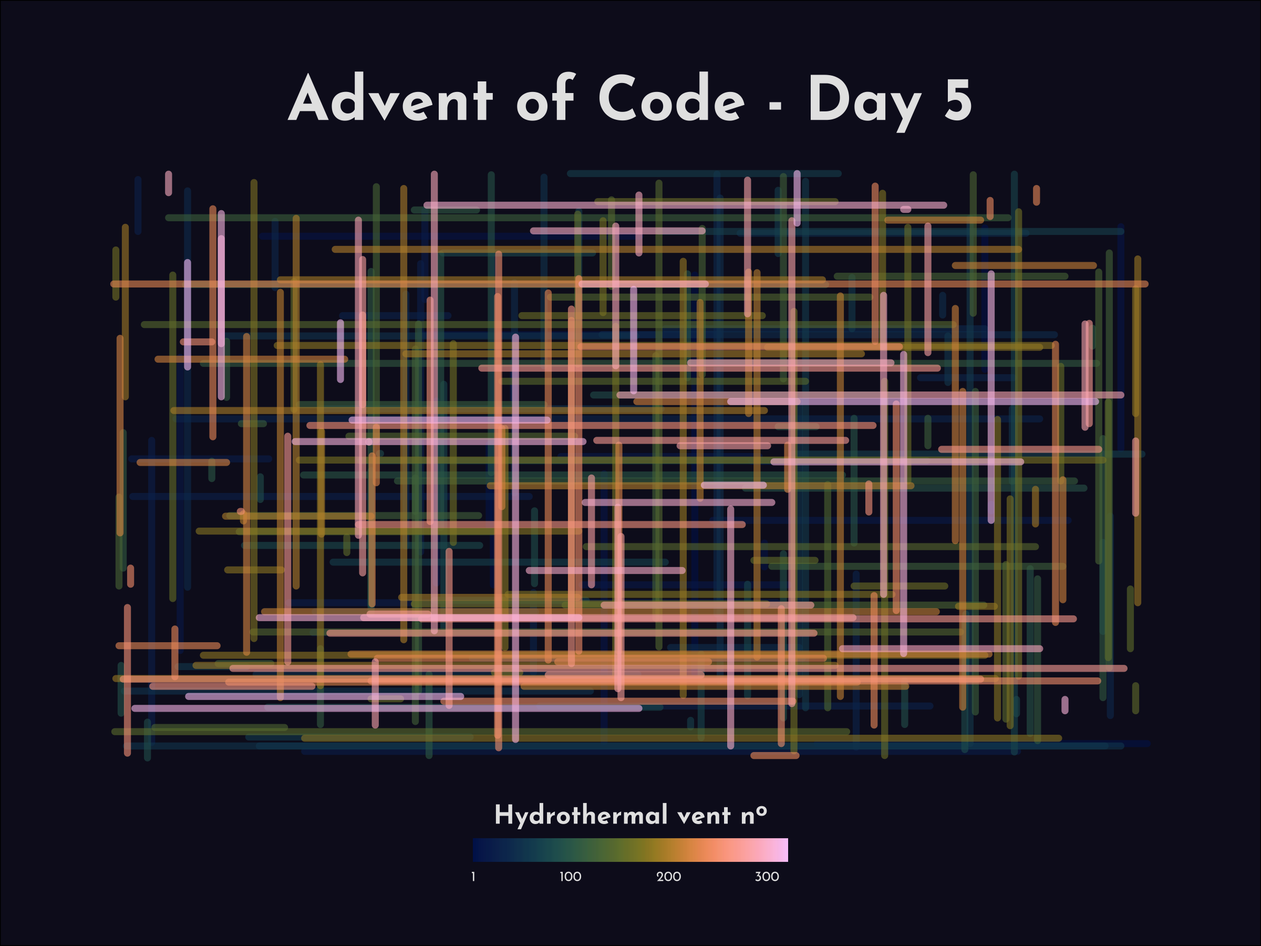
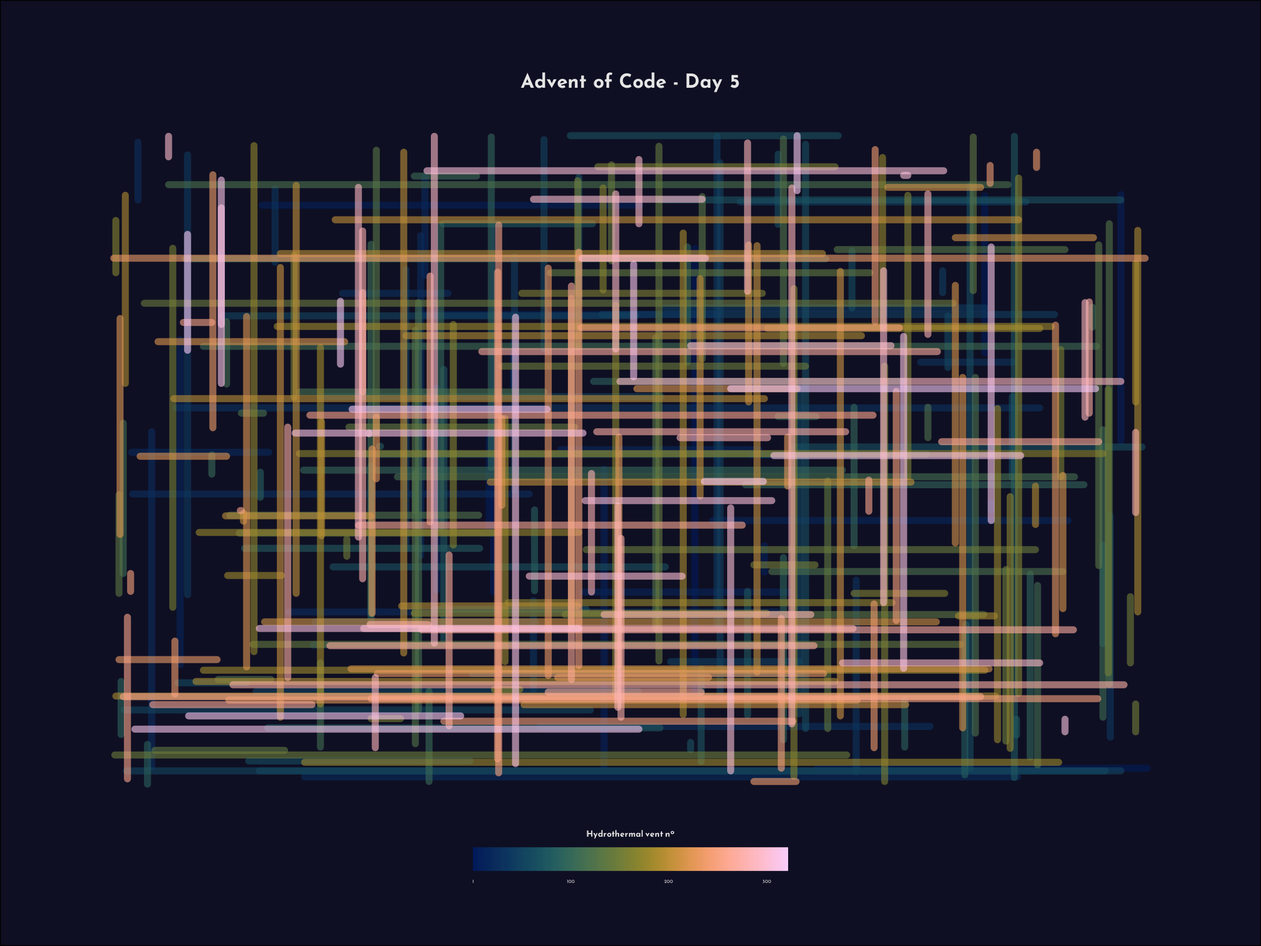
style fixes

Changed region(s): [[0.0625, 0.0622, 0.9062, 0.9333]]

diff --git a/docs/2021.html b/docs/2021.html
@@ -2506,7 +2506,6 @@ p a:hover {
 <div class="sourceCode">
 <pre class="sourceCode r"><code class="sourceCode r"><span class='kw'><a href='https://rdrr.io/r/base/library.html'>library</a></span><span class='op'>(</span><span class='va'><a href='https://tidyverse.tidyverse.org'>tidyverse</a></span><span class='op'>)</span>
 
-
 <span class='va'>data</span> <span class='op'>&lt;-</span> <span class='fu'><a href='https://readr.tidyverse.org/reference/read_table.html'>read_table</a></span><span class='op'>(</span><span class='st'>"./2021/day_01/input_day01.txt"</span>, col_names <span class='op'>=</span> <span class='st'>"depth"</span><span class='op'>)</span>
 
 <span class='va'>data</span> <span class='op'><a href='https://magrittr.tidyverse.org/reference/pipe.html'>%&gt;%</a></span> 
@@ -2538,7 +2537,6 @@ p a:hover {
 <div class="sourceCode">
 <pre class="sourceCode r"><code class="sourceCode r"><span class='kw'><a href='https://rdrr.io/r/base/library.html'>library</a></span><span class='op'>(</span><span class='va'><a href='https://tidyverse.tidyverse.org'>tidyverse</a></span><span class='op'>)</span>
 
-
 <span class='va'>data</span> <span class='op'>&lt;-</span> <span class='fu'><a href='https://readr.tidyverse.org/reference/read_table.html'>read_table</a></span><span class='op'>(</span><span class='st'>"./2021/day_01/input_day01.txt"</span>, col_names <span class='op'>=</span> <span class='st'>"depth"</span><span class='op'>)</span>
 
 <span class='va'>data</span> <span class='op'><a href='https://magrittr.tidyverse.org/reference/pipe.html'>%&gt;%</a></span> 
@@ -2560,7 +2558,7 @@ p a:hover {
 </div>
 <div class="layout-chunk" data-layout="l-body">
 <pre><code>[1] 1457</code></pre>
-<pre><code>0.182 sec elapsed</code></pre>
+<pre><code>0.213 sec elapsed</code></pre>
 </div>
 </section>
 <section id="day-2" class="panel-name panel">
@@ -2569,7 +2567,6 @@ p a:hover {
 <div class="layout-chunk" data-layout="l-body">
 <div class="sourceCode">
 <pre class="sourceCode r"><code class="sourceCode r"><span class='kw'><a href='https://rdrr.io/r/base/library.html'>library</a></span><span class='op'>(</span><span class='va'><a href='https://tidyverse.tidyverse.org'>tidyverse</a></span><span class='op'>)</span>
-
 
 <span class='va'>commands</span> <span class='op'>&lt;-</span> <span class='fu'><a href='https://readr.tidyverse.org/reference/read_table.html'>read_table</a></span><span class='op'>(</span><span class='st'>"./2021/day_02/input_day02.txt"</span>, 
                        col_names <span class='op'>=</span> <span class='fu'><a href='https://rdrr.io/r/base/c.html'>c</a></span><span class='op'>(</span><span class='st'>"direction"</span>,<span class='st'>"value"</span><span class='op'>)</span><span class='op'>)</span>
@@ -2592,13 +2589,12 @@ p a:hover {
 </div>
 <div class="layout-chunk" data-layout="l-body">
 <pre><code>[1] 1654760</code></pre>
-<pre><code>0.019 sec elapsed</code></pre>
+<pre><code>0.022 sec elapsed</code></pre>
 </div>
 <h2 id="part-2-1">Part 2</h2>
 <div class="layout-chunk" data-layout="l-body">
 <div class="sourceCode">
 <pre class="sourceCode r"><code class="sourceCode r"><span class='kw'><a href='https://rdrr.io/r/base/library.html'>library</a></span><span class='op'>(</span><span class='va'><a href='https://tidyverse.tidyverse.org'>tidyverse</a></span><span class='op'>)</span>
-
 
 <span class='va'>commands</span> <span class='op'>&lt;-</span> <span class='fu'><a href='https://readr.tidyverse.org/reference/read_table.html'>read_table</a></span><span class='op'>(</span><span class='st'>"./2021/day_02/input_day02.txt"</span>, 
                        col_names <span class='op'>=</span> <span class='fu'><a href='https://rdrr.io/r/base/c.html'>c</a></span><span class='op'>(</span><span class='st'>"direction"</span>,<span class='st'>"value"</span><span class='op'>)</span><span class='op'>)</span>
@@ -2633,7 +2629,7 @@ p a:hover {
 </div>
 <div class="layout-chunk" data-layout="l-body">
 <pre><code>[1] 1956047400</code></pre>
-<pre><code>2.768 sec elapsed</code></pre>
+<pre><code>3.2 sec elapsed</code></pre>
 </div>
 </section>
 <section id="day-3" class="panel-name panel">
@@ -2642,7 +2638,6 @@ p a:hover {
 <div class="layout-chunk" data-layout="l-body">
 <div class="sourceCode">
 <pre class="sourceCode r"><code class="sourceCode r"><span class='kw'><a href='https://rdrr.io/r/base/library.html'>library</a></span><span class='op'>(</span><span class='va'><a href='https://tidyverse.tidyverse.org'>tidyverse</a></span><span class='op'>)</span>
-
 
 <span class='va'>input</span> <span class='op'>&lt;-</span> <span class='fu'><a href='https://readr.tidyverse.org/reference/read_table.html'>read_table</a></span><span class='op'>(</span><span class='st'>"./2021/day_03/input_day03.txt"</span>, col_names <span class='op'>=</span> <span class='st'>"full_binary"</span><span class='op'>)</span>
 
@@ -2680,13 +2675,12 @@ p a:hover {
 </div>
 <div class="layout-chunk" data-layout="l-body">
 <pre><code>[1] 3148794</code></pre>
-<pre><code>0.073 sec elapsed</code></pre>
+<pre><code>0.068 sec elapsed</code></pre>
 </div>
 <h2 id="part-2-2">Part 2</h2>
 <div class="layout-chunk" data-layout="l-body">
 <div class="sourceCode">
 <pre class="sourceCode r"><code class="sourceCode r"><span class='kw'><a href='https://rdrr.io/r/base/library.html'>library</a></span><span class='op'>(</span><span class='va'><a href='https://tidyverse.tidyverse.org'>tidyverse</a></span><span class='op'>)</span>
-
 
 <span class='va'>input</span> <span class='op'>&lt;-</span> <span class='fu'><a href='https://readr.tidyverse.org/reference/read_table.html'>read_table</a></span><span class='op'>(</span><span class='st'>"./2021/day_03/input_day03.txt"</span>, col_names <span class='op'>=</span> <span class='st'>"full_binary"</span><span class='op'>)</span>
 
@@ -2742,7 +2736,7 @@ p a:hover {
 </div>
 <div class="layout-chunk" data-layout="l-body">
 <pre><code>[1] 2795310</code></pre>
-<pre><code>0.412 sec elapsed</code></pre>
+<pre><code>0.443 sec elapsed</code></pre>
 </div>
 </section>
 <section id="day-4" class="panel-name panel">
@@ -2751,7 +2745,6 @@ p a:hover {
 <div class="layout-chunk" data-layout="l-body">
 <div class="sourceCode">
 <pre class="sourceCode r"><code class="sourceCode r"><span class='kw'><a href='https://rdrr.io/r/base/library.html'>library</a></span><span class='op'>(</span><span class='va'><a href='https://tidyverse.tidyverse.org'>tidyverse</a></span><span class='op'>)</span>
-
 
 <span class='va'>input_numbers</span> <span class='op'>&lt;-</span> <span class='fu'><a href='https://readr.tidyverse.org/reference/read_delim.html'>read_csv</a></span><span class='op'>(</span><span class='st'>"./2021/day_04/input_day04.txt"</span>, col_names <span class='op'>=</span> <span class='cn'>FALSE</span><span class='op'>)</span> <span class='op'><a href='https://magrittr.tidyverse.org/reference/pipe.html'>%&gt;%</a></span> 
   <span class='fu'><a href='https://dplyr.tidyverse.org/reference/slice.html'>slice</a></span><span class='op'>(</span><span class='fl'>1</span><span class='op'>)</span> <span class='op'><a href='https://magrittr.tidyverse.org/reference/pipe.html'>%&gt;%</a></span> 
@@ -2831,13 +2824,12 @@ p a:hover {
 </div>
 <div class="layout-chunk" data-layout="l-body">
 <pre><code>[1] 63424</code></pre>
-<pre><code>1.355 sec elapsed</code></pre>
+<pre><code>1.801 sec elapsed</code></pre>
 </div>
 <h2 id="part-2-3">Part 2</h2>
 <div class="layout-chunk" data-layout="l-body">
 <div class="sourceCode">
 <pre class="sourceCode r"><code class="sourceCode r"><span class='kw'><a href='https://rdrr.io/r/base/library.html'>library</a></span><span class='op'>(</span><span class='va'><a href='https://tidyverse.tidyverse.org'>tidyverse</a></span><span class='op'>)</span>
-
 
 <span class='va'>input_numbers</span> <span class='op'>&lt;-</span> <span class='fu'><a href='https://readr.tidyverse.org/reference/read_delim.html'>read_csv</a></span><span class='op'>(</span><span class='st'>"./2021/day_04/input_day04.txt"</span>, col_names <span class='op'>=</span> <span class='cn'>FALSE</span><span class='op'>)</span> <span class='op'><a href='https://magrittr.tidyverse.org/reference/pipe.html'>%&gt;%</a></span> 
   <span class='fu'><a href='https://dplyr.tidyverse.org/reference/slice.html'>slice</a></span><span class='op'>(</span><span class='fl'>1</span><span class='op'>)</span> <span class='op'><a href='https://magrittr.tidyverse.org/reference/pipe.html'>%&gt;%</a></span> 
@@ -2914,7 +2906,7 @@ p a:hover {
 </div>
 <div class="layout-chunk" data-layout="l-body">
 <pre><code>[1] 23541</code></pre>
-<pre><code>3.45 sec elapsed</code></pre>
+<pre><code>3.807 sec elapsed</code></pre>
 </div>
 </section>
 <section id="day-5" class="panel-name panel">
@@ -2924,7 +2916,6 @@ p a:hover {
 <div class="sourceCode">
 <pre class="sourceCode r"><code class="sourceCode r"><span class='kw'><a href='https://rdrr.io/r/base/library.html'>library</a></span><span class='op'>(</span><span class='va'><a href='https://tidyverse.tidyverse.org'>tidyverse</a></span><span class='op'>)</span>
 <span class='kw'><a href='https://rdrr.io/r/base/library.html'>library</a></span><span class='op'>(</span><span class='va'><a href='https://github.com/yixuan/showtext'>showtext</a></span><span class='op'>)</span>
-
 
 <span class='va'>input</span> <span class='op'>&lt;-</span> <span class='fu'><a href='https://readr.tidyverse.org/reference/read_delim.html'>read_csv</a></span><span class='op'>(</span><span class='fu'>here</span><span class='fu'>::</span><span class='fu'><a href='https://here.r-lib.org//reference/here.html'>here</a></span><span class='op'>(</span><span class='st'>"2021"</span>, <span class='st'>"day_05"</span>,<span class='st'>"input_day05.txt"</span><span class='op'>)</span>, 
                   col_names <span class='op'>=</span> <span class='cn'>FALSE</span><span class='op'>)</span> <span class='op'><a href='https://magrittr.tidyverse.org/reference/pipe.html'>%&gt;%</a></span> 
@@ -2978,7 +2969,7 @@ p a:hover {
 </div>
 <div class="layout-chunk" data-layout="l-body">
 <pre><code>[1] 6572</code></pre>
-<pre><code>3.77 sec elapsed</code></pre>
+<pre><code>4.329 sec elapsed</code></pre>
 </div>
 <p><img src="2021/day_05/plot_day05.png" alt="plot_day05" style="width:100%;"/></p>
 <h2 id="part-2-4">Part 2</h2>
@@ -2986,7 +2977,6 @@ p a:hover {
 <div class="sourceCode">
 <pre class="sourceCode r"><code class="sourceCode r"><span class='kw'><a href='https://rdrr.io/r/base/library.html'>library</a></span><span class='op'>(</span><span class='va'><a href='https://tidyverse.tidyverse.org'>tidyverse</a></span><span class='op'>)</span>
 <span class='kw'><a href='https://rdrr.io/r/base/library.html'>library</a></span><span class='op'>(</span><span class='va'><a href='https://github.com/yixuan/showtext'>showtext</a></span><span class='op'>)</span>
-
 
 <span class='va'>input</span> <span class='op'>&lt;-</span> <span class='fu'><a href='https://readr.tidyverse.org/reference/read_delim.html'>read_csv</a></span><span class='op'>(</span><span class='fu'>here</span><span class='fu'>::</span><span class='fu'><a href='https://here.r-lib.org//reference/here.html'>here</a></span><span class='op'>(</span><span class='st'>"2021"</span>, <span class='st'>"day_05"</span>,<span class='st'>"input_day05.txt"</span><span class='op'>)</span>, 
                   col_names <span class='op'>=</span> <span class='cn'>FALSE</span><span class='op'>)</span> <span class='op'><a href='https://magrittr.tidyverse.org/reference/pipe.html'>%&gt;%</a></span> 
@@ -3014,7 +3004,7 @@ p a:hover {
 </div>
 <div class="layout-chunk" data-layout="l-body">
 <pre><code>[1] 21466</code></pre>
-<pre><code>2.814 sec elapsed</code></pre>
+<pre><code>2.753 sec elapsed</code></pre>
 </div>
 </section>
 <section id="day-6" class="panel-name panel">
@@ -3023,7 +3013,6 @@ p a:hover {
 <div class="layout-chunk" data-layout="l-body">
 <div class="sourceCode">
 <pre class="sourceCode r"><code class="sourceCode r"><span class='kw'><a href='https://rdrr.io/r/base/library.html'>library</a></span><span class='op'>(</span><span class='va'><a href='https://tidyverse.tidyverse.org'>tidyverse</a></span><span class='op'>)</span>
-
 
 <span class='va'>input</span> <span class='op'>&lt;-</span> <span class='fu'><a href='https://readr.tidyverse.org/reference/read_delim.html'>read_csv</a></span><span class='op'>(</span><span class='fu'>here</span><span class='fu'>::</span><span class='fu'><a href='https://here.r-lib.org//reference/here.html'>here</a></span><span class='op'>(</span><span class='st'>"2021"</span>, <span class='st'>"day_06"</span>,<span class='st'>"input_day06.txt"</span><span class='op'>)</span>, 
                   col_names <span class='op'>=</span> <span class='cn'>FALSE</span><span class='op'>)</span> <span class='op'><a href='https://magrittr.tidyverse.org/reference/pipe.html'>%&gt;%</a></span> 
@@ -3057,13 +3046,12 @@ p a:hover {
 </div>
 <div class="layout-chunk" data-layout="l-body">
 <pre><code>[1] 386640</code></pre>
-<pre><code>0.303 sec elapsed</code></pre>
+<pre><code>0.313 sec elapsed</code></pre>
 </div>
 <h2 id="part-2-5">Part 2</h2>
 <div class="layout-chunk" data-layout="l-body">
 <div class="sourceCode">
 <pre class="sourceCode r"><code class="sourceCode r"><span class='kw'><a href='https://rdrr.io/r/base/library.html'>library</a></span><span class='op'>(</span><span class='va'><a href='https://tidyverse.tidyverse.org'>tidyverse</a></span><span class='op'>)</span>
-
 
 <span class='va'>input</span> <span class='op'>&lt;-</span> <span class='fu'><a href='https://readr.tidyverse.org/reference/read_delim.html'>read_csv</a></span><span class='op'>(</span><span class='fu'>here</span><span class='fu'>::</span><span class='fu'><a href='https://here.r-lib.org//reference/here.html'>here</a></span><span class='op'>(</span><span class='st'>"2021"</span>, <span class='st'>"day_06"</span>,<span class='st'>"input_day06.txt"</span><span class='op'>)</span>, 
                   col_names <span class='op'>=</span> <span class='cn'>FALSE</span><span class='op'>)</span> <span class='op'><a href='https://magrittr.tidyverse.org/reference/pipe.html'>%&gt;%</a></span> 
@@ -3110,7 +3098,7 @@ p a:hover {
 </div>
 <div class="layout-chunk" data-layout="l-body">
 <pre><code>[1] 1733403626279</code></pre>
-<pre><code>3.785 sec elapsed</code></pre>
+<pre><code>3.482 sec elapsed</code></pre>
 </div>
 </section>
 <section id="day-7" class="panel-name panel">
@@ -3119,7 +3107,6 @@ p a:hover {
 <div class="layout-chunk" data-layout="l-body">
 <div class="sourceCode">
 <pre class="sourceCode r"><code class="sourceCode r"><span class='kw'><a href='https://rdrr.io/r/base/library.html'>library</a></span><span class='op'>(</span><span class='va'><a href='https://tidyverse.tidyverse.org'>tidyverse</a></span><span class='op'>)</span>
-
 
 <span class='va'>input</span> <span class='op'>&lt;-</span> <span class='fu'><a href='https://readr.tidyverse.org/reference/read_delim.html'>read_csv</a></span><span class='op'>(</span><span class='fu'>here</span><span class='fu'>::</span><span class='fu'><a href='https://here.r-lib.org//reference/here.html'>here</a></span><span class='op'>(</span><span class='st'>"2021"</span>,<span class='st'>"day_07"</span>,<span class='st'>"input_day07.txt"</span><span class='op'>)</span>, 
                   col_names <span class='op'>=</span> <span class='cn'>FALSE</span><span class='op'>)</span> <span class='op'><a href='https://magrittr.tidyverse.org/reference/pipe.html'>%&gt;%</a></span> 
@@ -3145,13 +3132,12 @@ p a:hover {
 </div>
 <div class="layout-chunk" data-layout="l-body">
 <pre><code>[1] 328187</code></pre>
-<pre><code>1.617 sec elapsed</code></pre>
+<pre><code>1.506 sec elapsed</code></pre>
 </div>
 <h2 id="part-2-6">Part 2</h2>
 <div class="layout-chunk" data-layout="l-body">
 <div class="sourceCode">
 <pre class="sourceCode r"><code class="sourceCode r"><span class='kw'><a href='https://rdrr.io/r/base/library.html'>library</a></span><span class='op'>(</span><span class='va'><a href='https://tidyverse.tidyverse.org'>tidyverse</a></span><span class='op'>)</span>
-
 
 <span class='va'>input</span> <span class='op'>&lt;-</span> <span class='fu'><a href='https://readr.tidyverse.org/reference/read_delim.html'>read_csv</a></span><span class='op'>(</span><span class='fu'>here</span><span class='fu'>::</span><span class='fu'><a href='https://here.r-lib.org//reference/here.html'>here</a></span><span class='op'>(</span><span class='st'>"2021"</span>,<span class='st'>"day_07"</span>,<span class='st'>"input_day07.txt"</span><span class='op'>)</span>, 
                   col_names <span class='op'>=</span> <span class='cn'>FALSE</span><span class='op'>)</span> <span class='op'><a href='https://magrittr.tidyverse.org/reference/pipe.html'>%&gt;%</a></span> 
@@ -3181,7 +3167,7 @@ p a:hover {
 </div>
 <div class="layout-chunk" data-layout="l-body">
 <pre><code>[1] 91257582</code></pre>
-<pre><code>13.111 sec elapsed</code></pre>
+<pre><code>12.743 sec elapsed</code></pre>
 </div>
 </section>
 <section id="day-8" class="panel-name panel">
@@ -3190,7 +3176,6 @@ p a:hover {
 <div class="layout-chunk" data-layout="l-body">
 <div class="sourceCode">
 <pre class="sourceCode r"><code class="sourceCode r"><span class='kw'><a href='https://rdrr.io/r/base/library.html'>library</a></span><span class='op'>(</span><span class='va'><a href='https://tidyverse.tidyverse.org'>tidyverse</a></span><span class='op'>)</span>
-
 
 <span class='va'>input</span> <span class='op'>&lt;-</span> <span class='fu'><a href='https://readr.tidyverse.org/reference/read_delim.html'>read_delim</a></span><span class='op'>(</span><span class='fu'>here</span><span class='fu'>::</span><span class='fu'><a href='https://here.r-lib.org//reference/here.html'>here</a></span><span class='op'>(</span><span class='st'>"2021"</span>,<span class='st'>"day_08"</span>,<span class='st'>"input_day08.txt"</span><span class='op'>)</span>, delim <span class='op'>=</span> <span class='st'>"|"</span>, 
                     col_names <span class='op'>=</span> <span class='cn'>FALSE</span><span class='op'>)</span>
@@ -3212,14 +3197,13 @@ p a:hover {
 </div>
 <div class="layout-chunk" data-layout="l-body">
 <pre><code>[1] 294</code></pre>
-<pre><code>0.062 sec elapsed</code></pre>
+<pre><code>0.053 sec elapsed</code></pre>
 </div>
 <h2 id="part-2-7">Part 2</h2>
 <p>Got a lot of help from <a href="https://emilhvitfeldt.github.io/rstats-adventofcode/2021.html?panelset=day-8">Emil Hvitveldt</a> on this one. Reorganized his solution so I could make sense of it. This one hurt me 🤕</p>
 <div class="layout-chunk" data-layout="l-body">
 <div class="sourceCode">
 <pre class="sourceCode r"><code class="sourceCode r"><span class='kw'><a href='https://rdrr.io/r/base/library.html'>library</a></span><span class='op'>(</span><span class='va'><a href='https://tidyverse.tidyverse.org'>tidyverse</a></span><span class='op'>)</span>
-
 
 <span class='va'>input</span> <span class='op'>&lt;-</span> <span class='fu'><a href='https://readr.tidyverse.org/reference/read_delim.html'>read_delim</a></span><span class='op'>(</span><span class='fu'>here</span><span class='fu'>::</span><span class='fu'><a href='https://here.r-lib.org//reference/here.html'>here</a></span><span class='op'>(</span><span class='st'>"2021"</span>,<span class='st'>"day_08"</span>,<span class='st'>"input_day08.txt"</span><span class='op'>)</span>, delim <span class='op'>=</span> <span class='st'>"|"</span>, 
                     col_names <span class='op'>=</span> <span class='cn'>FALSE</span><span class='op'>)</span>
@@ -3275,7 +3259,7 @@ p a:hover {
 </div>
 <div class="layout-chunk" data-layout="l-body">
 <pre><code>[1] 973292</code></pre>
-<pre><code>0.377 sec elapsed</code></pre>
+<pre><code>0.361 sec elapsed</code></pre>
 </div>
 </section>
 <section id="day-9" class="panel-name panel">
@@ -3284,7 +3268,6 @@ p a:hover {
 <div class="layout-chunk" data-layout="l-body">
 <div class="sourceCode">
 <pre class="sourceCode r"><code class="sourceCode r"><span class='kw'><a href='https://rdrr.io/r/base/library.html'>library</a></span><span class='op'>(</span><span class='va'><a href='https://tidyverse.tidyverse.org'>tidyverse</a></span><span class='op'>)</span>
-
 
 <span class='va'>input</span> <span class='op'>&lt;-</span> <span class='fu'><a href='https://readr.tidyverse.org/reference/read_table.html'>read_table</a></span><span class='op'>(</span><span class='fu'>here</span><span class='fu'>::</span><span class='fu'><a href='https://here.r-lib.org//reference/here.html'>here</a></span><span class='op'>(</span><span class='st'>"2021"</span>,<span class='st'>"day_09"</span>,<span class='st'>"input_day09.txt"</span><span class='op'>)</span>, 
                     col_names <span class='op'>=</span> <span class='cn'>FALSE</span><span class='op'>)</span> <span class='op'><a href='https://magrittr.tidyverse.org/reference/pipe.html'>%&gt;%</a></span>
@@ -3330,14 +3313,13 @@ p a:hover {
 </div>
 <div class="layout-chunk" data-layout="l-body">
 <pre><code>[1] 128</code></pre>
-<pre><code>0.102 sec elapsed</code></pre>
+<pre><code>0.068 sec elapsed</code></pre>
 </div>
 <h2 id="part-2-8">Part 2</h2>
-<p>Got stuck here, and once I found this amazingly clever solution from <a href="https://github.com/czeildi/advent-of-code/blob/main/solutions_2021/day09.R">Ildikó Czeller</a> using <code>{igraph}</code>. I wanted to know how this worked, so I applied her solution here.</p>
+<p>Got stuck here, and once I found this amazingly clever solution from <a href="https://github.com/czeildi/advent-of-code/blob/main/solutions_2021/day09.R">Ildikó Czeller</a> using <code>{igraph}</code>. I wanted to know how this worked, and then I learned from <a href="https://twitter.com/jnirski">Jarosław Nirski</a> about a similar solution using <code>{tidygraph}</code>, which is very neat:</p>
 <div class="layout-chunk" data-layout="l-body">
 <div class="sourceCode">
 <pre class="sourceCode r"><code class="sourceCode r"><span class='kw'><a href='https://rdrr.io/r/base/library.html'>library</a></span><span class='op'>(</span><span class='va'><a href='https://tidyverse.tidyverse.org'>tidyverse</a></span><span class='op'>)</span>
-
 
 <span class='va'>input</span> <span class='op'>&lt;-</span> <span class='fu'><a href='https://readr.tidyverse.org/reference/read_table.html'>read_table</a></span><span class='op'>(</span><span class='fu'>here</span><span class='fu'>::</span><span class='fu'><a href='https://here.r-lib.org//reference/here.html'>here</a></span><span class='op'>(</span><span class='st'>"2021"</span>,<span class='st'>"day_09"</span>,<span class='st'>"input_day09.txt"</span><span class='op'>)</span>, 
                     col_names <span class='op'>=</span> <span class='cn'>FALSE</span><span class='op'>)</span> <span class='op'><a href='https://magrittr.tidyverse.org/reference/pipe.html'>%&gt;%</a></span>
@@ -3352,43 +3334,20 @@ p a:hover {
   <span class='fu'><a href='https://dplyr.tidyverse.org/reference/group_by.html'>ungroup</a></span><span class='op'>(</span><span class='op'>)</span> <span class='op'><a href='https://magrittr.tidyverse.org/reference/pipe.html'>%&gt;%</a></span> 
   <span class='fu'><a href='https://dplyr.tidyverse.org/reference/select.html'>select</a></span><span class='op'>(</span><span class='va'>value</span>, <span class='va'>row_no</span>, <span class='va'>col_no</span><span class='op'>)</span>
 
-<span class='va'>directions</span> <span class='op'>&lt;-</span> <span class='fu'><a href='https://tibble.tidyverse.org/reference/tribble.html'>tribble</a></span><span class='op'>(</span>
-  <span class='op'>~</span><span class='va'>direction</span>, <span class='op'>~</span><span class='va'>d_x</span>, <span class='op'>~</span><span class='va'>d_y</span>,
-  <span class='st'>"right"</span>, <span class='fl'>1</span>, <span class='fl'>0</span>,
-  <span class='st'>"left"</span>, <span class='op'>-</span><span class='fl'>1</span>, <span class='fl'>0</span>,
-  <span class='st'>"bottom"</span>, <span class='fl'>0</span>, <span class='fl'>1</span>,
-  <span class='st'>"top"</span>, <span class='fl'>0</span>, <span class='op'>-</span><span class='fl'>1</span>
-<span class='op'>)</span>
-
-<span class='va'>full_table_w_neighbors</span> <span class='op'>&lt;-</span> <span class='va'>data_long</span> <span class='op'><a href='https://magrittr.tidyverse.org/reference/pipe.html'>%&gt;%</a></span> 
-  <span class='fu'><a href='https://dplyr.tidyverse.org/reference/mutate-joins.html'>inner_join</a></span><span class='op'>(</span><span class='va'>directions</span>, by <span class='op'>=</span> <span class='fu'><a href='https://rdrr.io/r/base/character.html'>character</a></span><span class='op'>(</span><span class='op'>)</span><span class='op'>)</span> <span class='op'><a href='https://magrittr.tidyverse.org/reference/pipe.html'>%&gt;%</a></span> 
-  <span class='fu'><a href='https://dplyr.tidyverse.org/reference/mutate.html'>mutate</a></span><span class='op'>(</span>nb_x <span class='op'>=</span> <span class='va'>row_no</span> <span class='op'>+</span> <span class='va'>d_x</span>, nb_y <span class='op'>=</span> <span class='va'>col_no</span> <span class='op'>+</span> <span class='va'>d_y</span><span class='op'>)</span> <span class='op'><a href='https://magrittr.tidyverse.org/reference/pipe.html'>%&gt;%</a></span> 
-  <span class='fu'><a href='https://dplyr.tidyverse.org/reference/mutate-joins.html'>left_join</a></span><span class='op'>(</span><span class='va'>data_long</span>, by <span class='op'>=</span> <span class='fu'><a href='https://rdrr.io/r/base/c.html'>c</a></span><span class='op'>(</span><span class='st'>"nb_x"</span> <span class='op'>=</span> <span class='st'>"row_no"</span>, <span class='st'>"nb_y"</span> <span class='op'>=</span> <span class='st'>"col_no"</span><span class='op'>)</span><span class='op'>)</span> <span class='op'><a href='https://magrittr.tidyverse.org/reference/pipe.html'>%&gt;%</a></span> 
-  <span class='fu'><a href='https://dplyr.tidyverse.org/reference/rename.html'>rename</a></span><span class='op'>(</span>value <span class='op'>=</span> <span class='va'>value.x</span>, 
-         nb_value <span class='op'>=</span> <span class='va'>value.y</span><span class='op'>)</span>
-
-<span class='va'>basin_edges</span> <span class='op'>&lt;-</span> <span class='va'>full_table_w_neighbors</span> <span class='op'><a href='https://magrittr.tidyverse.org/reference/pipe.html'>%&gt;%</a></span> 
-  <span class='fu'><a href='https://dplyr.tidyverse.org/reference/filter.html'>filter</a></span><span class='op'>(</span><span class='va'>value</span> <span class='op'>!=</span> <span class='fl'>9</span> <span class='op'>&amp;</span> <span class='va'>nb_value</span> <span class='op'>!=</span> <span class='fl'>9</span> <span class='op'>&amp;</span> <span class='op'>!</span><span class='fu'><a href='https://rdrr.io/r/base/NA.html'>is.na</a></span><span class='op'>(</span><span class='va'>nb_value</span><span class='op'>)</span><span class='op'>)</span> <span class='op'><a href='https://magrittr.tidyverse.org/reference/pipe.html'>%&gt;%</a></span> 
-  <span class='fu'><a href='https://dplyr.tidyverse.org/reference/mutate.html'>mutate</a></span><span class='op'>(</span>from <span class='op'>=</span> <span class='fu'><a href='https://stringr.tidyverse.org/reference/str_glue.html'>str_glue</a></span><span class='op'>(</span><span class='st'>"{row_no};{col_no}"</span><span class='op'>)</span>, to <span class='op'>=</span> <span class='fu'><a href='https://stringr.tidyverse.org/reference/str_glue.html'>str_glue</a></span><span class='op'>(</span><span class='st'>"{nb_x};{nb_y}"</span><span class='op'>)</span><span class='op'>)</span>
-
-<span class='va'>graph_edges_for_igraph</span> <span class='op'>&lt;-</span> <span class='fu'><a href='https://purrr.tidyverse.org/reference/map2.html'>map2</a></span><span class='op'>(</span><span class='va'>basin_edges</span><span class='op'>$</span><span class='va'>from</span>, <span class='va'>basin_edges</span><span class='op'>$</span><span class='va'>to</span>, <span class='op'>~</span> <span class='fu'><a href='https://rdrr.io/r/base/c.html'>c</a></span><span class='op'>(</span><span class='va'>.x</span>, <span class='va'>.y</span><span class='op'>)</span><span class='op'>)</span> <span class='op'><a href='https://magrittr.tidyverse.org/reference/pipe.html'>%&gt;%</a></span> 
-  <span class='fu'><a href='https://rdrr.io/r/base/unlist.html'>unlist</a></span><span class='op'>(</span><span class='op'>)</span>
-<span class='va'>graph</span> <span class='op'>&lt;-</span> <span class='fu'>igraph</span><span class='fu'>::</span><span class='fu'><a href='https://rdrr.io/pkg/igraph/man/make_graph.html'>make_graph</a></span><span class='op'>(</span><span class='va'>graph_edges_for_igraph</span>, directed <span class='op'>=</span> <span class='cn'>FALSE</span><span class='op'>)</span>
-
-<span class='va'>comps</span> <span class='op'>&lt;-</span> <span class='fu'>igraph</span><span class='fu'>::</span><span class='fu'><a href='https://rdrr.io/pkg/igraph/man/components.html'>components</a></span><span class='op'>(</span><span class='va'>graph</span><span class='op'>)</span>
-<span class='va'>basin_sizes</span> <span class='op'>&lt;-</span> <span class='va'>comps</span><span class='op'>$</span><span class='va'>csize</span>
-
-<span class='va'>basin_sizes</span> <span class='op'><a href='https://magrittr.tidyverse.org/reference/pipe.html'>%&gt;%</a></span> 
-  <span class='fu'><a href='https://rdrr.io/r/base/sort.html'>sort</a></span><span class='op'>(</span>decreasing <span class='op'>=</span> <span class='cn'>TRUE</span><span class='op'>)</span> <span class='op'><a href='https://magrittr.tidyverse.org/reference/pipe.html'>%&gt;%</a></span> 
-  <span class='fu'><a href='https://rdrr.io/r/utils/head.html'>head</a></span><span class='op'>(</span><span class='fl'>3</span><span class='op'>)</span> <span class='op'><a href='https://magrittr.tidyverse.org/reference/pipe.html'>%&gt;%</a></span> 
-  <span class='fu'><a href='https://rdrr.io/r/base/prod.html'>prod</a></span><span class='op'>(</span><span class='op'>)</span> <span class='op'><a href='https://magrittr.tidyverse.org/reference/pipe.html'>%&gt;%</a></span> 
-  <span class='fu'><a href='https://rdrr.io/r/base/print.html'>print</a></span><span class='op'>(</span><span class='op'>)</span>
+<span class='fu'>tidygraph</span><span class='fu'>::</span><span class='fu'><a href='https://tidygraph.data-imaginist.com/reference/create_graphs.html'>create_lattice</a></span><span class='op'>(</span><span class='fu'><a href='https://rdrr.io/r/base/c.html'>c</a></span><span class='op'>(</span><span class='fl'>100</span>, <span class='fl'>100</span><span class='op'>)</span><span class='op'>)</span> <span class='op'><a href='https://magrittr.tidyverse.org/reference/pipe.html'>%&gt;%</a></span>
+  <span class='fu'><a href='https://dplyr.tidyverse.org/reference/mutate.html'>mutate</a></span><span class='op'>(</span><span class='op'>!</span><span class='op'>!</span><span class='op'>!</span><span class='va'>data_long</span><span class='op'>)</span> <span class='op'><a href='https://magrittr.tidyverse.org/reference/pipe.html'>%&gt;%</a></span>
+  <span class='fu'><a href='https://dplyr.tidyverse.org/reference/filter.html'>filter</a></span><span class='op'>(</span><span class='va'>value</span> <span class='op'>!=</span> <span class='fl'>9</span><span class='op'>)</span> <span class='op'><a href='https://magrittr.tidyverse.org/reference/pipe.html'>%&gt;%</a></span>
+  <span class='fu'><a href='https://dplyr.tidyverse.org/reference/mutate.html'>mutate</a></span><span class='op'>(</span>group <span class='op'>=</span> <span class='fu'>tidygraph</span><span class='fu'>::</span><span class='fu'><a href='https://tidygraph.data-imaginist.com/reference/group_graph.html'>group_components</a></span><span class='op'>(</span><span class='op'>)</span><span class='op'>)</span> <span class='op'><a href='https://magrittr.tidyverse.org/reference/pipe.html'>%&gt;%</a></span>
+  <span class='fu'><a href='https://tibble.tidyverse.org/reference/as_tibble.html'>as_tibble</a></span><span class='op'>(</span><span class='op'>)</span> <span class='op'><a href='https://magrittr.tidyverse.org/reference/pipe.html'>%&gt;%</a></span>
+  <span class='fu'><a href='https://dplyr.tidyverse.org/reference/count.html'>count</a></span><span class='op'>(</span><span class='va'>group</span>, sort <span class='op'>=</span> <span class='cn'>TRUE</span><span class='op'>)</span> <span class='op'><a href='https://magrittr.tidyverse.org/reference/pipe.html'>%&gt;%</a></span>
+  <span class='fu'><a href='https://rdrr.io/r/utils/head.html'>head</a></span><span class='op'>(</span><span class='fl'>3</span><span class='op'>)</span> <span class='op'><a href='https://magrittr.tidyverse.org/reference/pipe.html'>%&gt;%</a></span>
+  <span class='fu'><a href='https://dplyr.tidyverse.org/reference/pull.html'>pull</a></span><span class='op'>(</span><span class='va'>n</span><span class='op'>)</span> <span class='op'><a href='https://magrittr.tidyverse.org/reference/pipe.html'>%&gt;%</a></span>
+  <span class='fu'><a href='https://rdrr.io/r/base/prod.html'>prod</a></span><span class='op'>(</span><span class='op'>)</span>
 </code></pre>
 </div>
 </div>
 <div class="layout-chunk" data-layout="l-body">
-<pre><code>[1] 931200</code></pre>
-<pre><code>0.396 sec elapsed</code></pre>
+<pre><code>0.146 sec elapsed</code></pre>
 </div>
 </section>
 <section id="day-10" class="panel-name panel">
@@ -3440,7 +3399,7 @@ p a:hover {
 <h1 class="panel-name">Day 25</h1>
 </section>
 </div>
-<div class="sourceCode" id="cb37"><pre class="sourceCode r distill-force-highlighting-css"><code class="sourceCode r"></code></pre></div>
+<div class="sourceCode" id="cb36"><pre class="sourceCode r distill-force-highlighting-css"><code class="sourceCode r"></code></pre></div>
 <!--radix_placeholder_article_footer-->
 <!--/radix_placeholder_article_footer-->
 </div>
